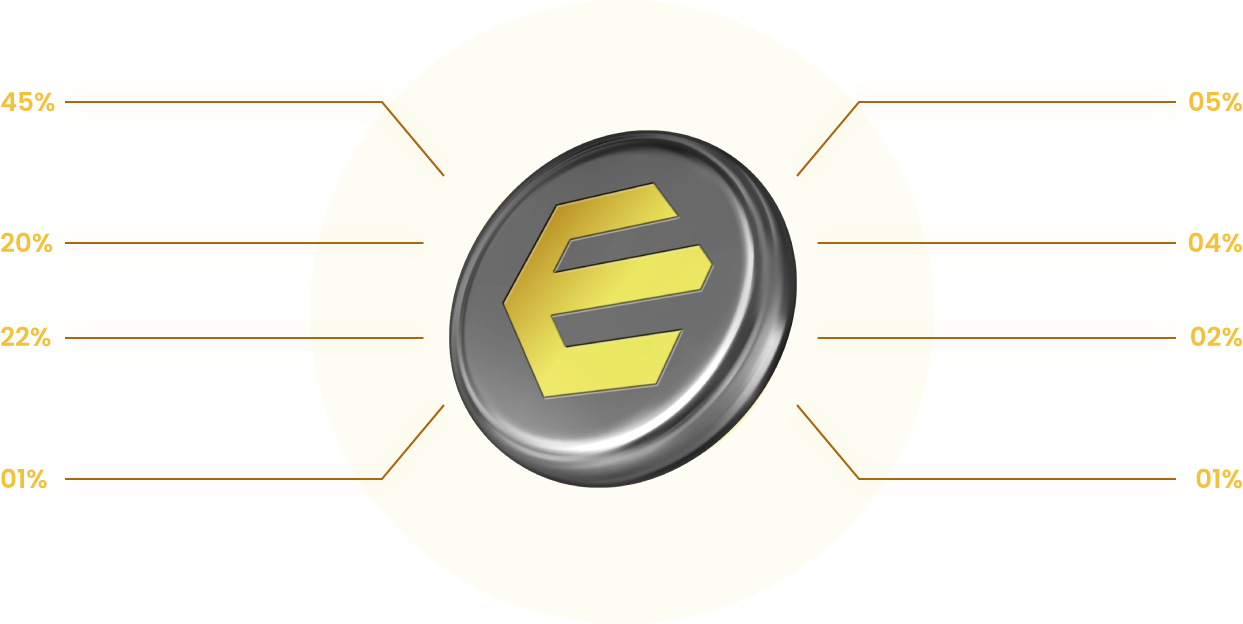
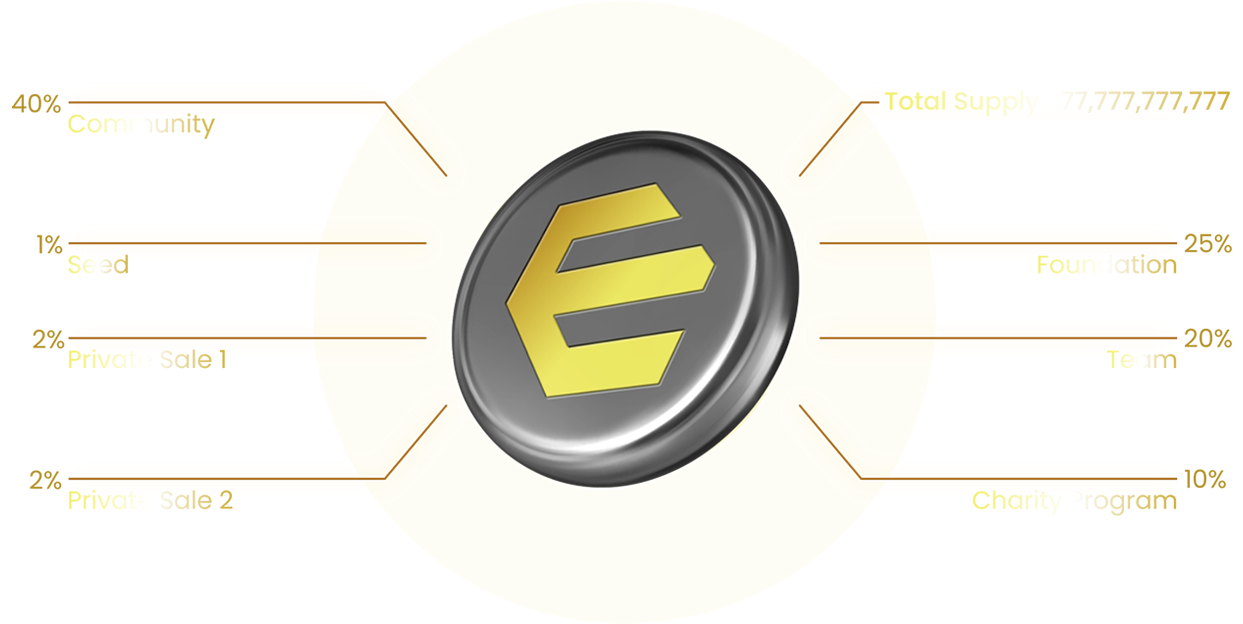
update tokonimics and nav bar menu

diff --git a/src/layouts/HomeLayout/TopBar.js b/src/layouts/HomeLayout/TopBar.js
@@ -331,26 +331,25 @@ export default function Header({ buttonClick }) {
 						</ScrollLink>
 					)}
 				</li>
-				{history.location.pathname !== "/clique" ? (
-					<li>
-						{" "}
-						{history.location.pathname !== "/" ? (
-							<Link className={menuButton} to="/">
-								Tokonomics
-							</Link>
-						) : (
-							<ScrollLink
-								className={menuButton}
-								smooth={true}
-								duration={500}
-								to="section5"
-							>
-								{" "}
-								Tokonomics{" "}
-							</ScrollLink>
-						)}
-					</li>
-				) : null}
+
+				<li>
+					{" "}
+					{history.location.pathname !== "/" ? (
+						<Link className={menuButton} to="/">
+							Tokonomics
+						</Link>
+					) : (
+						<ScrollLink
+							className={menuButton}
+							smooth={true}
+							duration={500}
+							to="section5"
+						>
+							{" "}
+							Tokonomics{" "}
+						</ScrollLink>
+					)}
+				</li>
 
 				{/* <Link className={menuButton} to="/">Litepaper</Link> */}
 				{/* {history.location.pathname !== "/" ?<Link to="/">projects</Link>  : <ScrollLink className="navy" smooth={true} duration={500}  to="section3" > EZE Lite </ScrollLink>} */}

diff --git a/src/views/pages/Home/Tokenomics.js b/src/views/pages/Home/Tokenomics.js
@@ -174,8 +174,15 @@ export default function Tokenomics() {
 				</Box>
 
 				<Box mt={5} textAlign="center">
-					<img
+					{/* <img
 						src="/images/home/tokenomics2.svg"
+						width="100%"
+						className={classes.investorImg}
+						alt=""
+					/> */}
+
+					<img
+						src="/images/home2/tokenomics.png"
 						width="100%"
 						className={classes.investorImg}
 						alt=""
